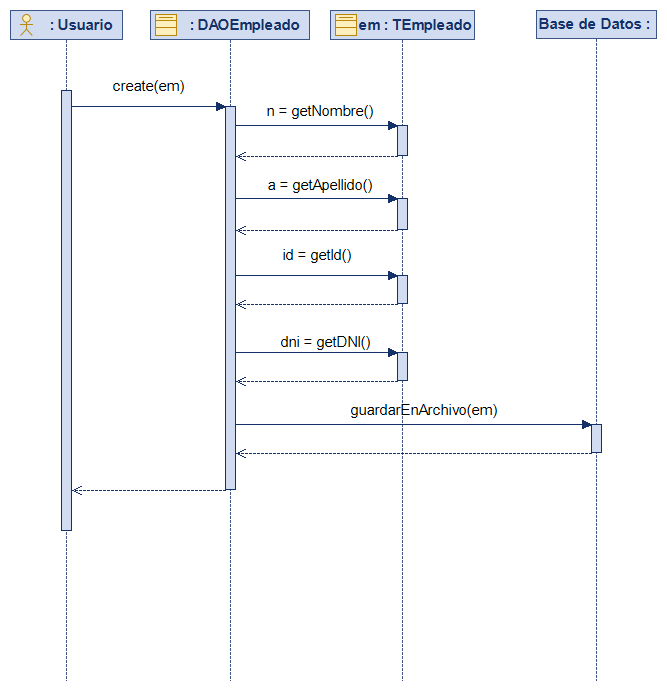
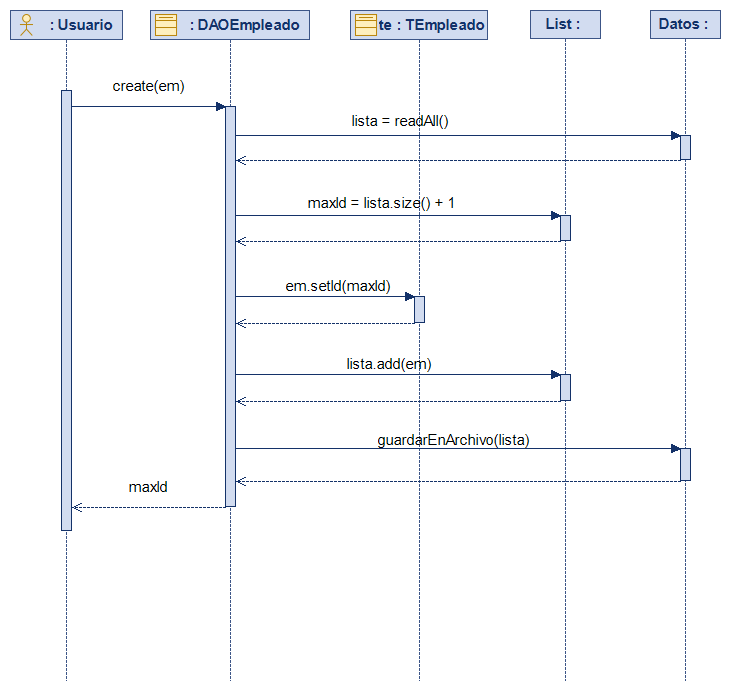
Diagramas

diff --git a/NIKEA_Eclipse_IS2/src/presentacion/GUIFactura/VistaAnnadirServicioFactura.java b/NIKEA_Eclipse_IS2/src/presentacion/GUIFactura/VistaAnnadirServicioFactura.java
@@ -8,8 +8,8 @@ import presentacion.controlador.Controlador;
 import presentacion.controlador.Eventos;
 import negocio.factura.TLineaFactura;
 
-@SuppressWarnings({ "serial", "this-escape" })
-public class VistaAnnadirServicioFactura extends JFrame implements IGUI {
+@SuppressWarnings({ "serial" })
+public class VistaAnnadirServicioFactura extends JDialog implements IGUI {
 
     private JTextField txtIdServicio;
     private JTextField txtCantidad;

diff --git a/NIKEA_Eclipse_IS2/src/integracion/empleado/DAOMontadorMontajeImp.java b/NIKEA_Eclipse_IS2/src/integracion/empleado/DAOMontadorMontajeImp.java
@@ -2,8 +2,6 @@ package integracion.empleado;
 
 import negocio.empleado.TMontadorMontaje;
 import java.util.Collection;
-import java.io.BufferedReader;
-import java.io.BufferedWriter;
 import java.io.File;
 import java.io.FileOutputStream;
 import java.nio.charset.StandardCharsets;
